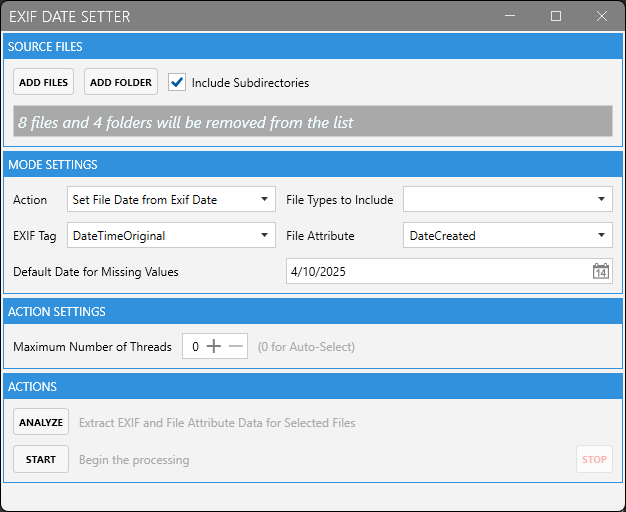
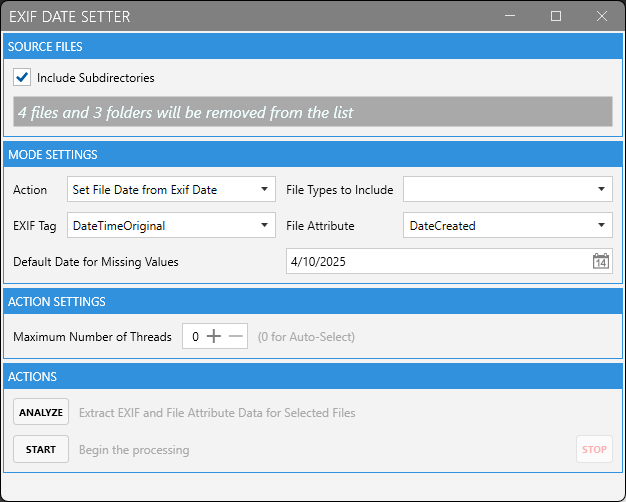
Update
- Updated screenshots with the new ui

diff --git a/readme.md b/readme.md
@@ -5,7 +5,13 @@ A Windows desktop application for easily synchronizing dates between EXIF metada
 ## Screenshots
 
 ![ExifDateSetter Screenshot](screenshots/sc01.png)
+
+Dropping new files (cursor is not visible in the screenshot) to the application will add them to the list.
+
 ![ExifDateSetter Screenshot](screenshots/sc02.png)
+
+You can also drag and drop files from the list back to the desktop or any other folder to remove them from the list.
+
 ![ExifDateSetter Screenshot](screenshots/sc03.png)
 ![ExifDateSetter Screenshot](screenshots/sc04.png)
 ![ExifDateSetter Screenshot](screenshots/sc05.png)
